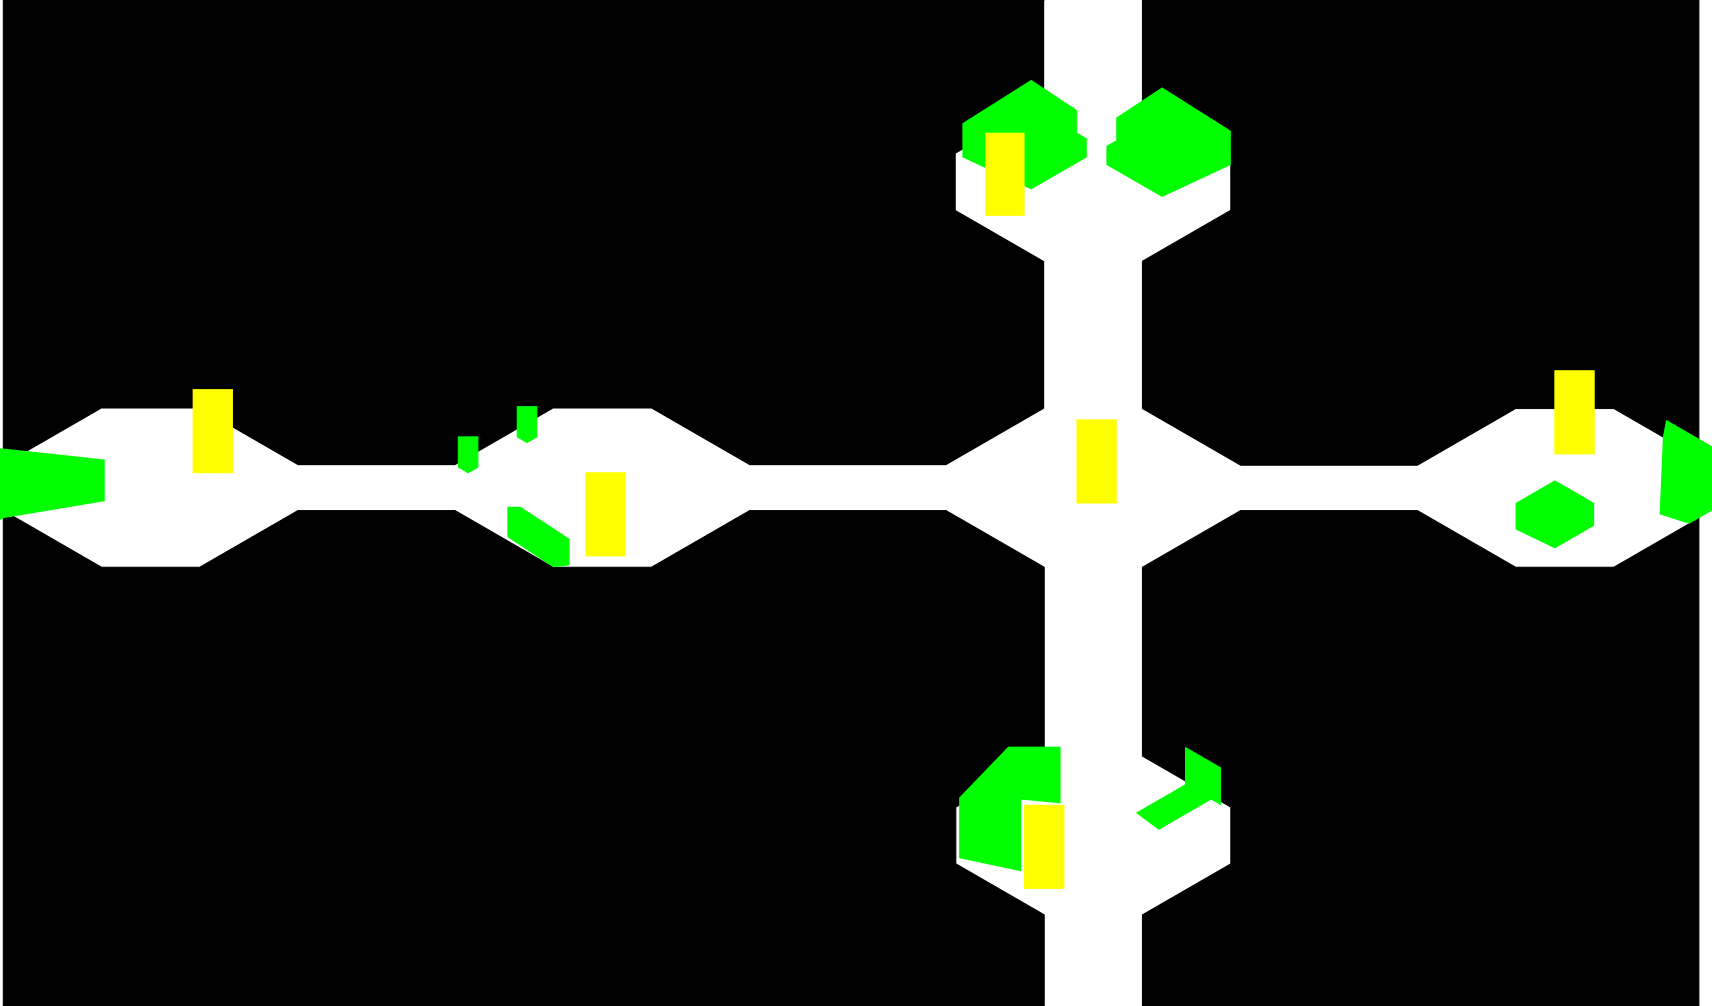
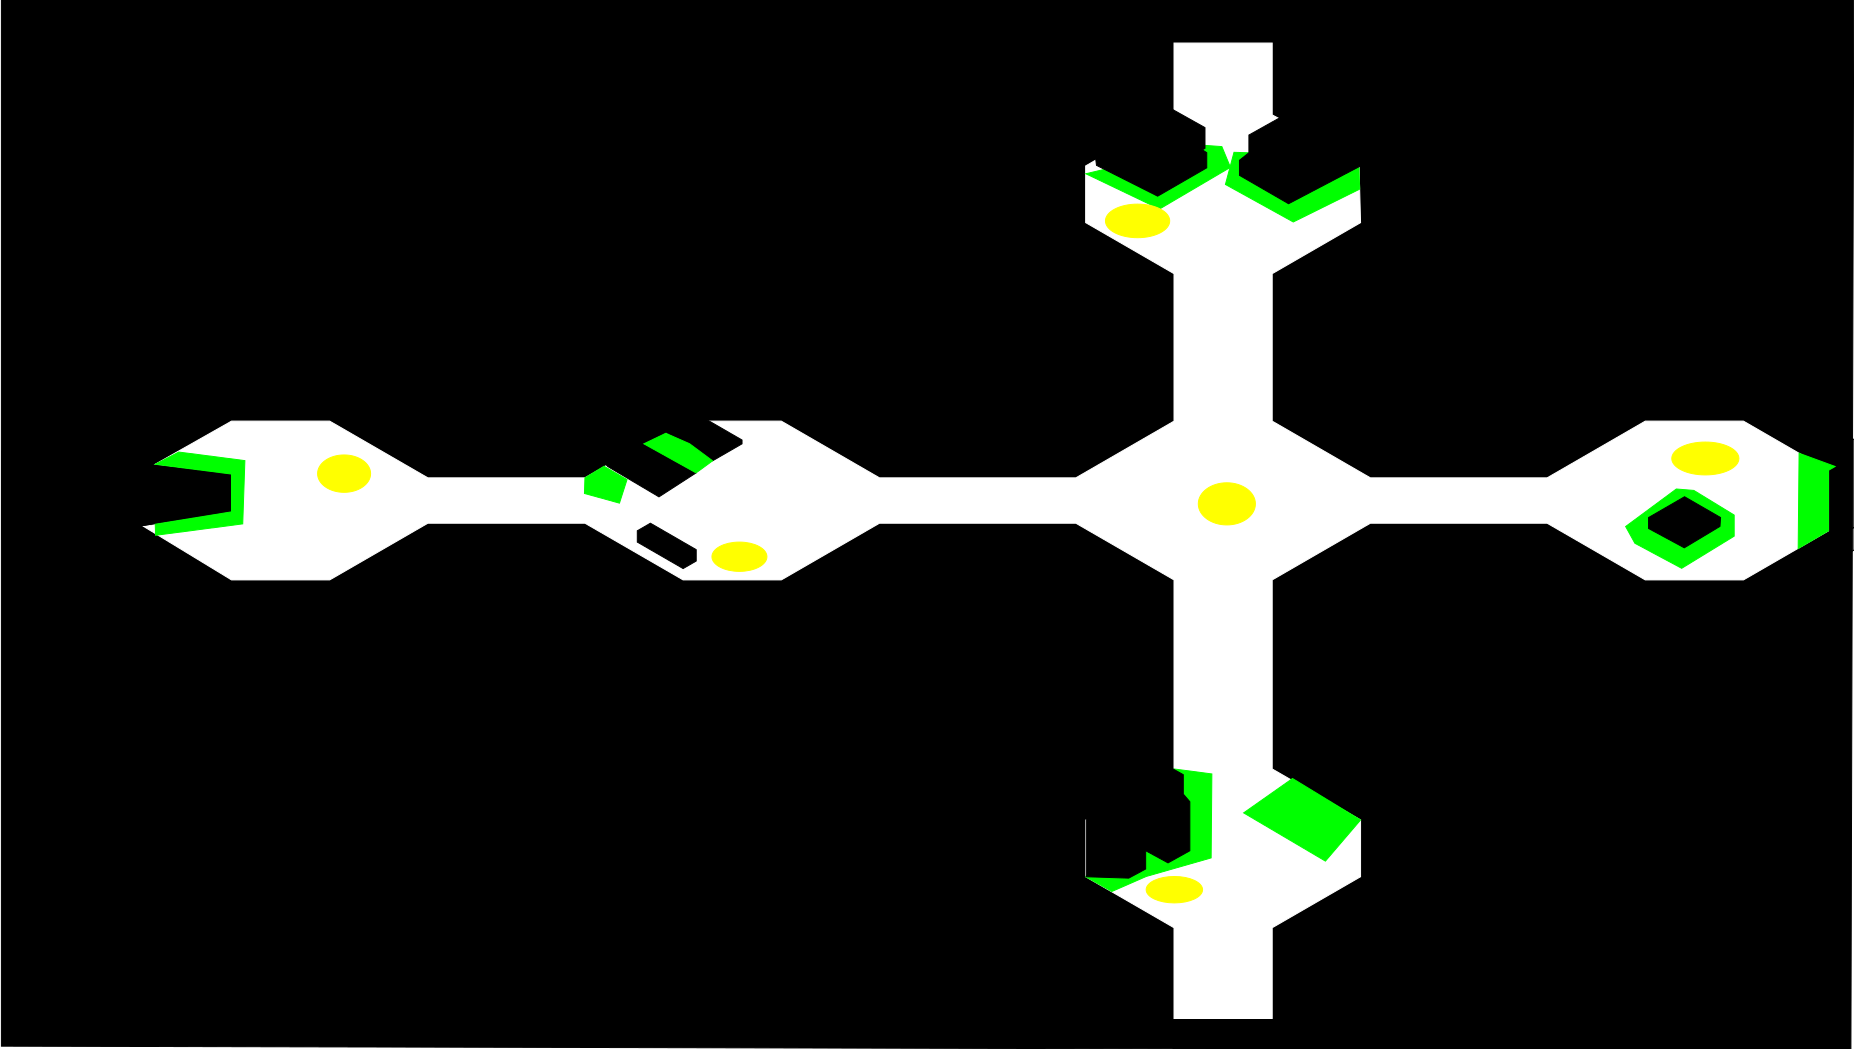
Added the collision layer system + changed map position to be 0,0

Changed region(s): [[0.0, 0.0, 0.8359, 1.0], [0.712, 0.0, 1.0, 1.0], [0.0, 0.9861, 0.2786, 1.0]]

diff --git a/Game/core/src/com/mygdx/game/Sprites/Player.java b/Game/core/src/com/mygdx/game/Sprites/Player.java
@@ -4,9 +4,11 @@ import com.badlogic.gdx.Gdx;
 import com.badlogic.gdx.Input;
 import com.badlogic.gdx.graphics.Texture;
 import com.badlogic.gdx.graphics.g2d.*;
+import com.mygdx.game.Collision.CheatCollision;
 import com.mygdx.game.MainGame;
 import com.mygdx.game.Screens.MainMenuScreen;
 import com.mygdx.game.Screens.PlayerTest;
+import com.mygdx.game.Collision.*;
 
 
 public class Player{
@@ -24,10 +26,14 @@ public class Player{
     public float yPos = 0;
     public int width;
     public int height;
+    private CheatCollision coll;
 
     public float speed = 5;
 
-    public Player(){
+    public Player(int mapScale,int playerWidth ,int playerHeight){
+        width = playerWidth;
+        height = playerHeight;
+
         textureAtlas = new TextureAtlas(Gdx.files.internal("player/player.atlas"));
         downAnimation = new Animation<TextureRegion>(0.08f, textureAtlas.findRegions("down"), Animation.PlayMode.LOOP_PINGPONG);
         upAnimation = new Animation<TextureRegion>(0.08f, textureAtlas.findRegions("up"), Animation.PlayMode.LOOP_PINGPONG);
@@ -36,8 +42,9 @@ public class Player{
 
         idleAnimation = new Animation<TextureRegion>(0.25f, textureAtlas.findRegions("player_idle"), Animation.PlayMode.LOOP_PINGPONG);
         teleportAnimation = new Animation<TextureRegion>(0.15f, textureAtlas.findRegions("teleport"), Animation.PlayMode.NORMAL);
-
+        coll = new CheatCollision(mapScale);
     }
+
     public TextureRegion render(float delta){
         time += delta;
 
@@ -83,8 +90,6 @@ public class Player{
         }else{
             textureRegion = idleAnimation.getKeyFrame(time);
         }
-        width = textureRegion.getRegionWidth();
-        height = textureRegion.getRegionHeight();
         return textureRegion;
 
     }
@@ -94,11 +99,16 @@ public class Player{
     public float getY(){
         return yPos;
     }
+    public int getWidth(){ return width;}
+    public int getHeight(){return height;}
 
     public void move(float dx,float dy){
         //TODO Add collision check and stop player from moving into the object
-        yPos += dy;
-        xPos += dx;
+        if(coll.getPositionType((int)(xPos+dx),(int)(yPos+dy))!=0 && coll.getPositionType((int)(xPos+dx+width),(int)(yPos+dy))!=0 ){
+            yPos += dy;
+            xPos += dx;
+        }
+
     }
 
     public void interact(){

diff --git a/Game/core/src/com/mygdx/game/Screens/PlayerTest.java b/Game/core/src/com/mygdx/game/Screens/PlayerTest.java
@@ -48,6 +48,7 @@ public class PlayerTest implements Screen {
 
     final int playerWidth = 100;
     final int playerHeight = 100;
+    final int mapScale = 4;
     @Override
     public void render (float delta) {
         //---------------Camera-----------------//
@@ -69,7 +70,8 @@ public class PlayerTest implements Screen {
         game.batch.draw(teleporter, MainGame.Game_Width - 500,MainGame.Game_Height/2,
                 teleporter.getWidth() / 6,teleporter.getHeight() / 6);
 
-        game.batch.draw(backgroundMap,(-MainGame.Game_Width * 3) + (MainGame.Game_Width / 2),(-MainGame.Game_Height * 4) + (MainGame.Game_Width/2), MainGame.Game_Width * 4, MainGame.Game_Height * 4);
+       //game.batch.draw(backgroundMap,(-MainGame.Game_Width * (mapScale-1)) + (MainGame.Game_Width / 2),(-MainGame.Game_Height * mapScale) + (MainGame.Game_Width/2), MainGame.Game_Width * mapScale, MainGame.Game_Height * mapScale);
+        game.batch.draw(backgroundMap,0,0, backgroundMap.getWidth()* mapScale, backgroundMap.getHeight() * mapScale);
 
         game.batch.draw(player.render(delta), player.getX(),player.getY(),playerWidth,playerHeight);
         infiltrator.updateTarget(player.getX(), player.getY());
@@ -118,9 +120,12 @@ public class PlayerTest implements Screen {
     @Override
     public void show() {
         infiltrator = new Infiltrator();
-        player = new Player();
+        player = new Player(mapScale,playerWidth,playerHeight);
+        player.xPos = (MainGame.Game_Width * (mapScale-1))-(MainGame.Game_Width / 2);
+        player.yPos = (MainGame.Game_Height * mapScale) - (MainGame.Game_Width/2);
         teleporter = new Texture("map\\teleporter.png");
         backgroundMap = new Texture("map\\mappng.png");
+        //backgroundMap = new Texture("map\\collisionlayer.png");
 
         cam = new OrthographicCamera(1920, 1080);
 

diff --git a/Game/core/src/com/mygdx/game/Collision/CheatCollision.java b/Game/core/src/com/mygdx/game/Collision/CheatCollision.java
@@ -1,0 +1,58 @@
+package com.mygdx.game.Collision;
+import com.badlogic.gdx.files.FileHandle;
+import com.badlogic.gdx.graphics.*;
+import com.badlogic.gdx.graphics.g2d.*;
+
+
+public class CheatCollision {
+    private int mapScale;
+    private Pixmap collisionMap;
+
+    public CheatCollision(int scale){
+        mapScale = scale;
+        Texture temp = new Texture("map\\collisionlayer.png");
+        temp.getTextureData().prepare();
+        collisionMap = temp.getTextureData().consumePixmap();
+    }
+    private int pix;
+
+    /**
+     * @param x X pos in the world
+     * @param y X pos in the world
+     * @return
+     *     0 : Out of Bounds
+     *     1 : Within Bounds
+     */
+    public int getPositionType(int x,int y){
+        /*
+        Checks the collision map for the state of the position at x y
+        Returns:
+            0 : Out of Bounds
+            1 : Within Bounds
+
+         */
+        pix = collisionMap.getPixel(x/mapScale,collisionMap.getHeight()-y/mapScale);
+
+
+        //White (255,255,255,255) floor returns 1
+        if(pix == Color.rgba8888(1f,1f,1f,1f)){
+            return 1;
+        }
+        //Black (  0,  0,  0) can't go returns 0
+        else if(pix == Color.rgba8888(0f,0f,0f,1f)){
+            return 0;
+        }
+        //Teleporter (255,255,  0) returns 2
+
+        //Systems (  0,255,  0) returns 3
+
+        /*
+        noncollide: 255-255-255
+        collide:0-0-0
+        teleporter: 255-255-0
+        systems: 0-255-0
+         */
+
+        return -1; //Invalid Colour
+    }
+}
